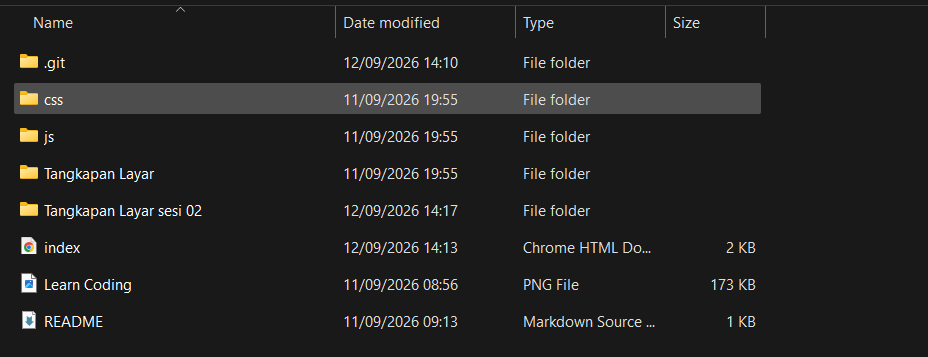
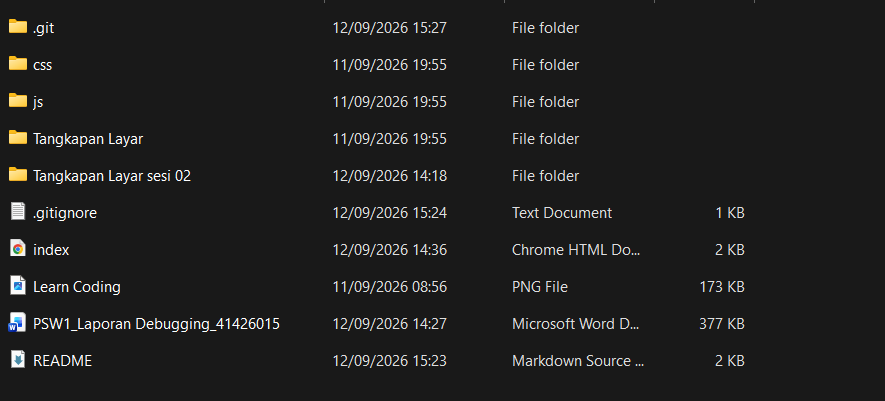
first commit

diff --git a/README.md b/README.md
@@ -24,3 +24,8 @@ Saya memeriksa ID pada HTML, memperbaiki selector, lalu menguji
 tombol melalui browser dan Console. Tidak ada kredensial atau
 data pribadi yang dikirimkan.
 12/09/2026
+
+Gejala	Bukti	Penyebab	Perbaikan	Hasil
+CSS Tidak tampil	Status (failed) net::ERR_FILE _NOT_FOUND_	Path salah	Memperbaiki path	200
+Tombol tidak bisa digunakan	TypeError: document.querrySelector is not a function	Console Error	Memperbaiki typo	Berhasil
+Gambar tidak dapat diload	Hanya ada teks alt	Adanya salah  pada penulisan code	Memperbaiki kesalahan penulisan	200
